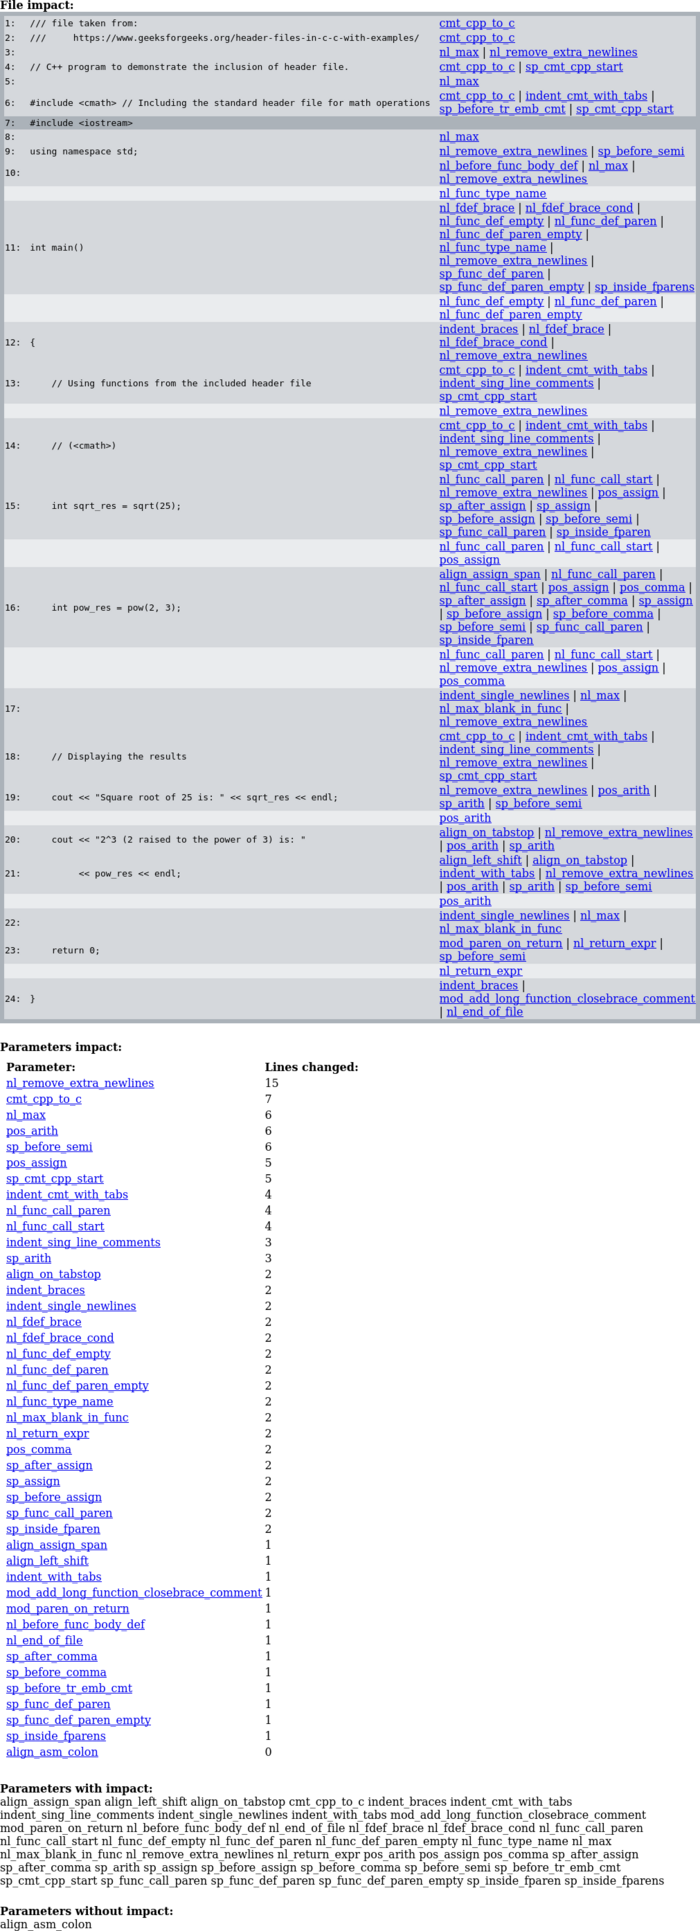
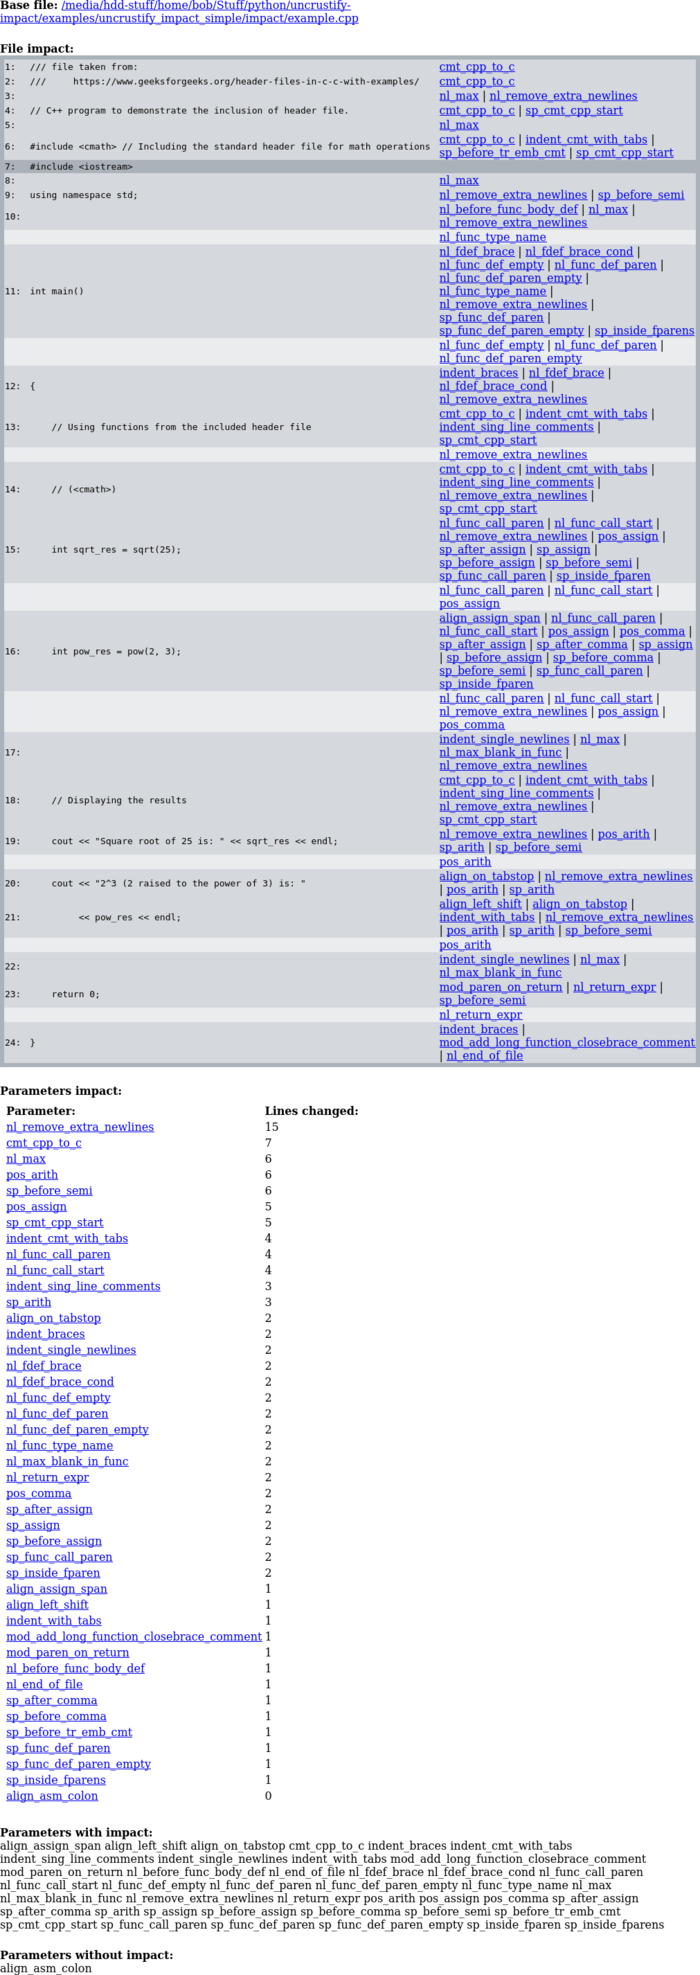
Uncrustify input file with input config before calculating impact

diff --git a/examples/uncrustify_impact_simple/impact/index.html b/examples/uncrustify_impact_simple/impact/index.html
@@ -16,6 +16,7 @@
     </style>
 </head>
 <body>
+<div><b>Base file:</b> <a href="/media/hdd-stuff/home/bob/Stuff/python/uncrustify-impact/examples/uncrustify_impact_simple/impact/example.cpp">/media/hdd-stuff/home/bob/Stuff/python/uncrustify-impact/examples/uncrustify_impact_simple/impact/example.cpp</a></div>
 <div class="section">File impact:</div>
 <table cellspacing="0" class="codediff">
 <tr class="line changed"><td class="colnum"><pre>1:</pre></td> <td class="colcode"><pre>/// file taken from:</pre></td> <td class="colmod"><a href="./uncrustify/cmt_cpp_to_c.html">cmt_cpp_to_c</a></td></tr>

diff --git a/examples/uncrustify_impact/impact/index.html b/examples/uncrustify_impact/impact/index.html
@@ -16,6 +16,7 @@
     </style>
 </head>
 <body>
+<div><b>Base file:</b> <a href="/media/hdd-stuff/home/bob/Stuff/python/uncrustify-impact/examples/uncrustify_impact/impact/example.cpp">/media/hdd-stuff/home/bob/Stuff/python/uncrustify-impact/examples/uncrustify_impact/impact/example.cpp</a></div>
 <div class="section">File impact:</div>
 <table cellspacing="0" class="codediff">
 <tr class="line changed"><td class="colnum"><pre>1:</pre></td> <td class="colcode"><pre>/// file taken from:</pre></td> <td class="colmod"><a href="./uncrustify/cmt_cpp_to_c.html">cmt_cpp_to_c</a></td></tr>

diff --git a/examples/uncrustify_paramsspace/impact/index.html b/examples/uncrustify_paramsspace/impact/index.html
@@ -16,6 +16,7 @@
     </style>
 </head>
 <body>
+<div><b>Base file:</b> <a href="/media/hdd-stuff/home/bob/Stuff/python/uncrustify-impact/examples/uncrustify_paramsspace/impact/example.cpp">/media/hdd-stuff/home/bob/Stuff/python/uncrustify-impact/examples/uncrustify_paramsspace/impact/example.cpp</a></div>
 <div class="section">File impact:</div>
 <table cellspacing="0" class="codediff">
 <tr class="line same"><td class="colnum"><pre>1:</pre></td> <td class="colcode"><pre>/// file taken from:</pre></td> <td class="colmod"></td></tr>

diff --git a/src/uncrustimpact/impact.py b/src/uncrustimpact/impact.py
@@ -32,7 +32,7 @@ def execute_uncrustify(input_file_path, base_config_path, out_file_path):
 
 
 def calculate_impact(
-    base_file_path,
+    input_base_file_path,
     base_config_path,
     output_base_dir_path,
     params_space_path=None,
@@ -42,7 +42,11 @@ def calculate_impact(
 ):
     uncrust_dir_path = os.path.join(output_base_dir_path, "uncrustify")
     os.makedirs(uncrust_dir_path, exist_ok=True)
-    # input_filename = os.path.basename(base_file_path)
+    input_filename = os.path.basename(input_base_file_path)
+
+    # setting extension to .txt changes results
+    base_file_path = os.path.join(output_base_dir_path, input_filename)
+    execute_uncrustify(input_base_file_path, base_config_path, base_file_path)
 
     ignore_params_set = set()
     if ignore_params:
@@ -138,11 +142,17 @@ def calculate_impact(
 
     # changes.print_diff()
 
+    top_content = f"""\
+<div><b>Base file:</b> <a href="{base_file_path}">{base_file_path}</a></div>
+"""
+
     params_stats = dict(sorted(params_stats.items(), key=lambda item: (-item[1], item[0])))
     bottom_content = generate_params_stats(params_stats, label_to_link=label_to_link)
 
     # write general diff
-    content = print_to_html(changes, label_converter=labels_to_links, bottom_content=bottom_content)
+    content = print_to_html(
+        changes, label_converter=labels_to_links, top_content=top_content, bottom_content=bottom_content
+    )
     out_path = os.path.join(output_base_dir_path, "index.html")
     with open(out_path, "w", encoding="utf-8") as out_file:
         out_file.write(content)

diff --git a/examples/uncrustify_impact/impact/example.cpp b/examples/uncrustify_impact/impact/example.cpp
@@ -1,0 +1,24 @@
+/// file taken from:
+///     https://www.geeksforgeeks.org/header-files-in-c-c-with-examples/
+
+// C++ program to demonstrate the inclusion of header file.
+
+#include <cmath> // Including the standard header file for math operations
+#include <iostream>
+
+using namespace std;
+
+int main()
+{
+    // Using functions from the included header file
+    // (<cmath>)
+    int sqrt_res = sqrt(25);
+    int pow_res = pow(2, 3);
+
+    // Displaying the results
+    cout << "Square root of 25 is: " << sqrt_res << endl;
+    cout << "2^3 (2 raised to the power of 3) is: "
+         << pow_res << endl;
+
+    return 0;
+}

diff --git a/examples/uncrustify_impact_simple/impact/example.cpp b/examples/uncrustify_impact_simple/impact/example.cpp
@@ -1,0 +1,24 @@
+/// file taken from:
+///     https://www.geeksforgeeks.org/header-files-in-c-c-with-examples/
+
+// C++ program to demonstrate the inclusion of header file.
+
+#include <cmath> // Including the standard header file for math operations
+#include <iostream>
+
+using namespace std;
+
+int main()
+{
+    // Using functions from the included header file
+    // (<cmath>)
+    int sqrt_res = sqrt(25);
+    int pow_res = pow(2, 3);
+
+    // Displaying the results
+    cout << "Square root of 25 is: " << sqrt_res << endl;
+    cout << "2^3 (2 raised to the power of 3) is: "
+         << pow_res << endl;
+
+    return 0;
+}

diff --git a/examples/uncrustify_paramsspace/impact/example.cpp b/examples/uncrustify_paramsspace/impact/example.cpp
@@ -1,0 +1,24 @@
+/// file taken from:
+///     https://www.geeksforgeeks.org/header-files-in-c-c-with-examples/
+
+// C++ program to demonstrate the inclusion of header file.
+
+#include <cmath> // Including the standard header file for math operations
+#include <iostream>
+
+using namespace std;
+
+int main()
+{
+    // Using functions from the included header file
+    // (<cmath>)
+    int sqrt_res = sqrt(25);
+    int pow_res = pow(2, 3);
+
+    // Displaying the results
+    cout << "Square root of 25 is: " << sqrt_res << endl;
+    cout << "2^3 (2 raised to the power of 3) is: "
+         << pow_res << endl;
+
+    return 0;
+}
